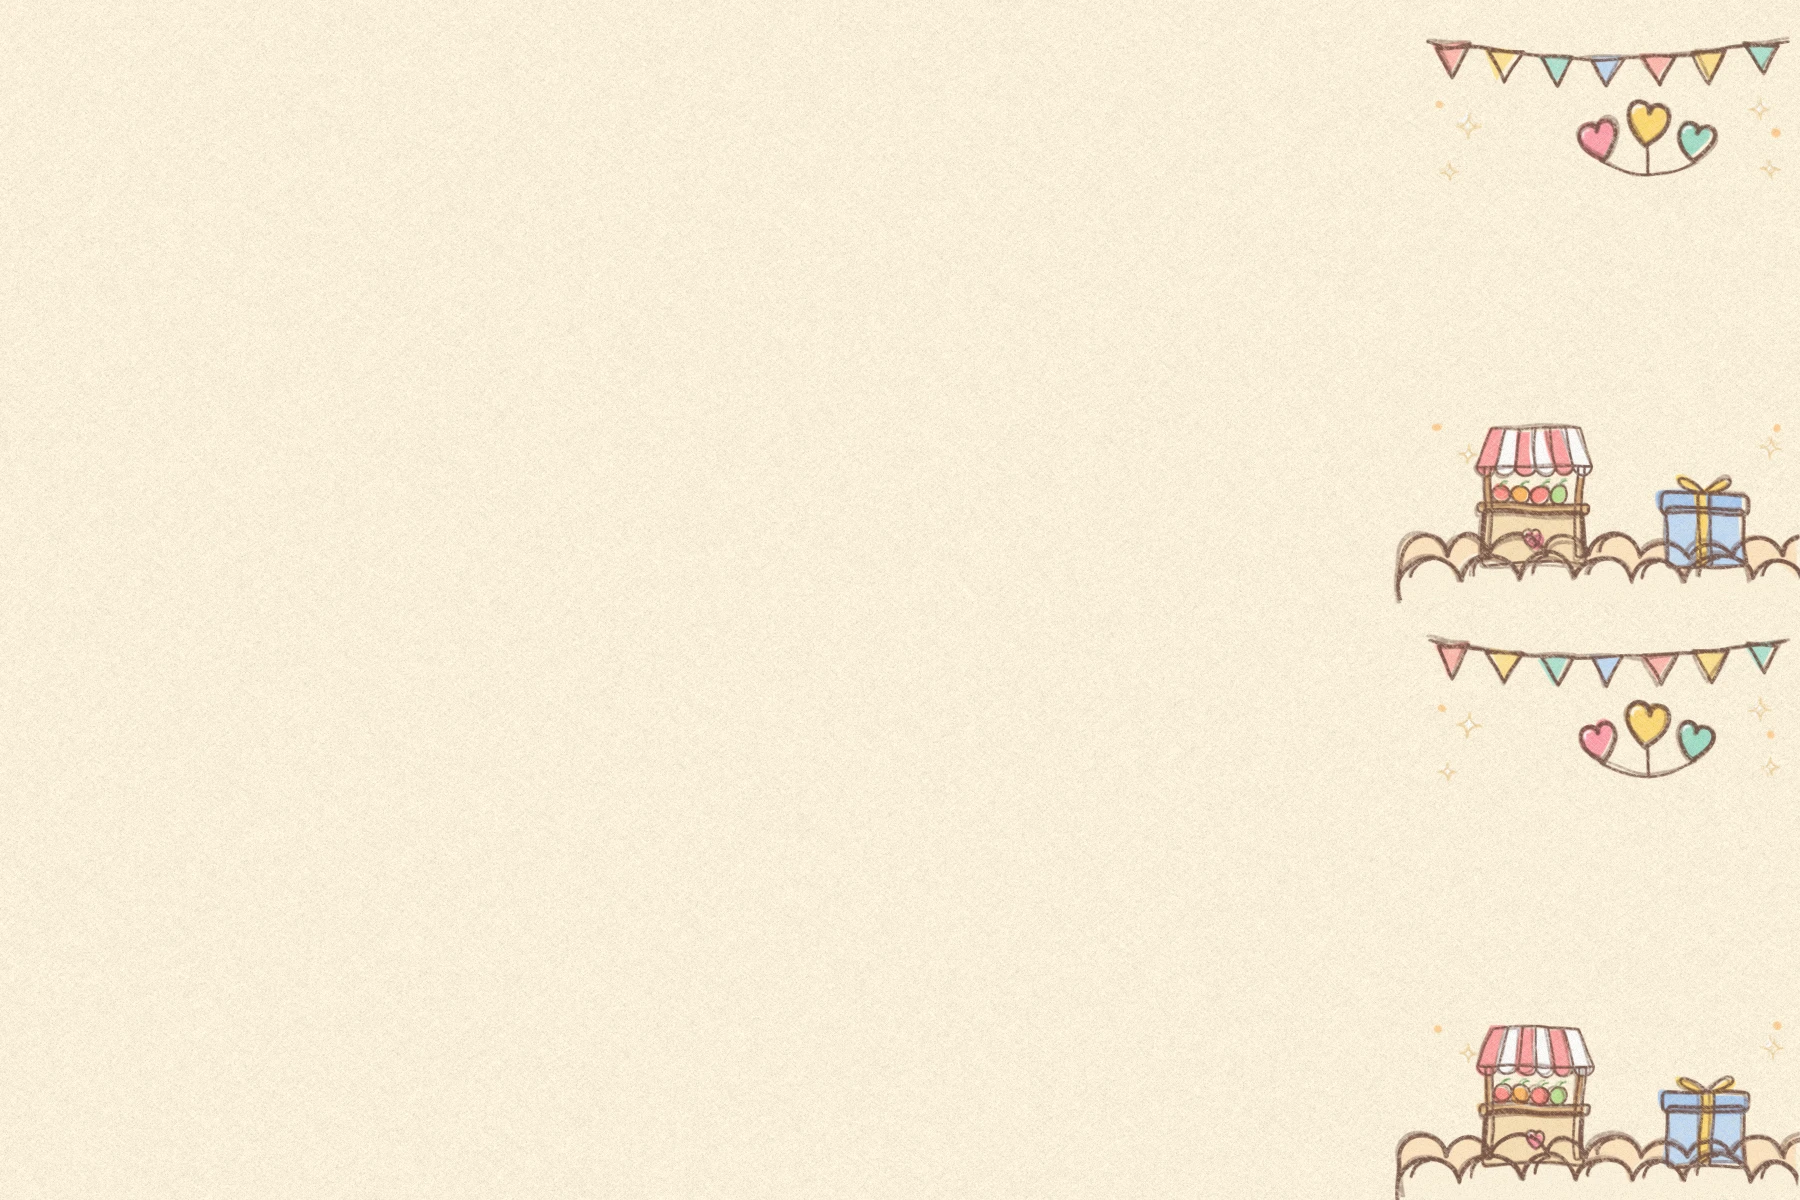
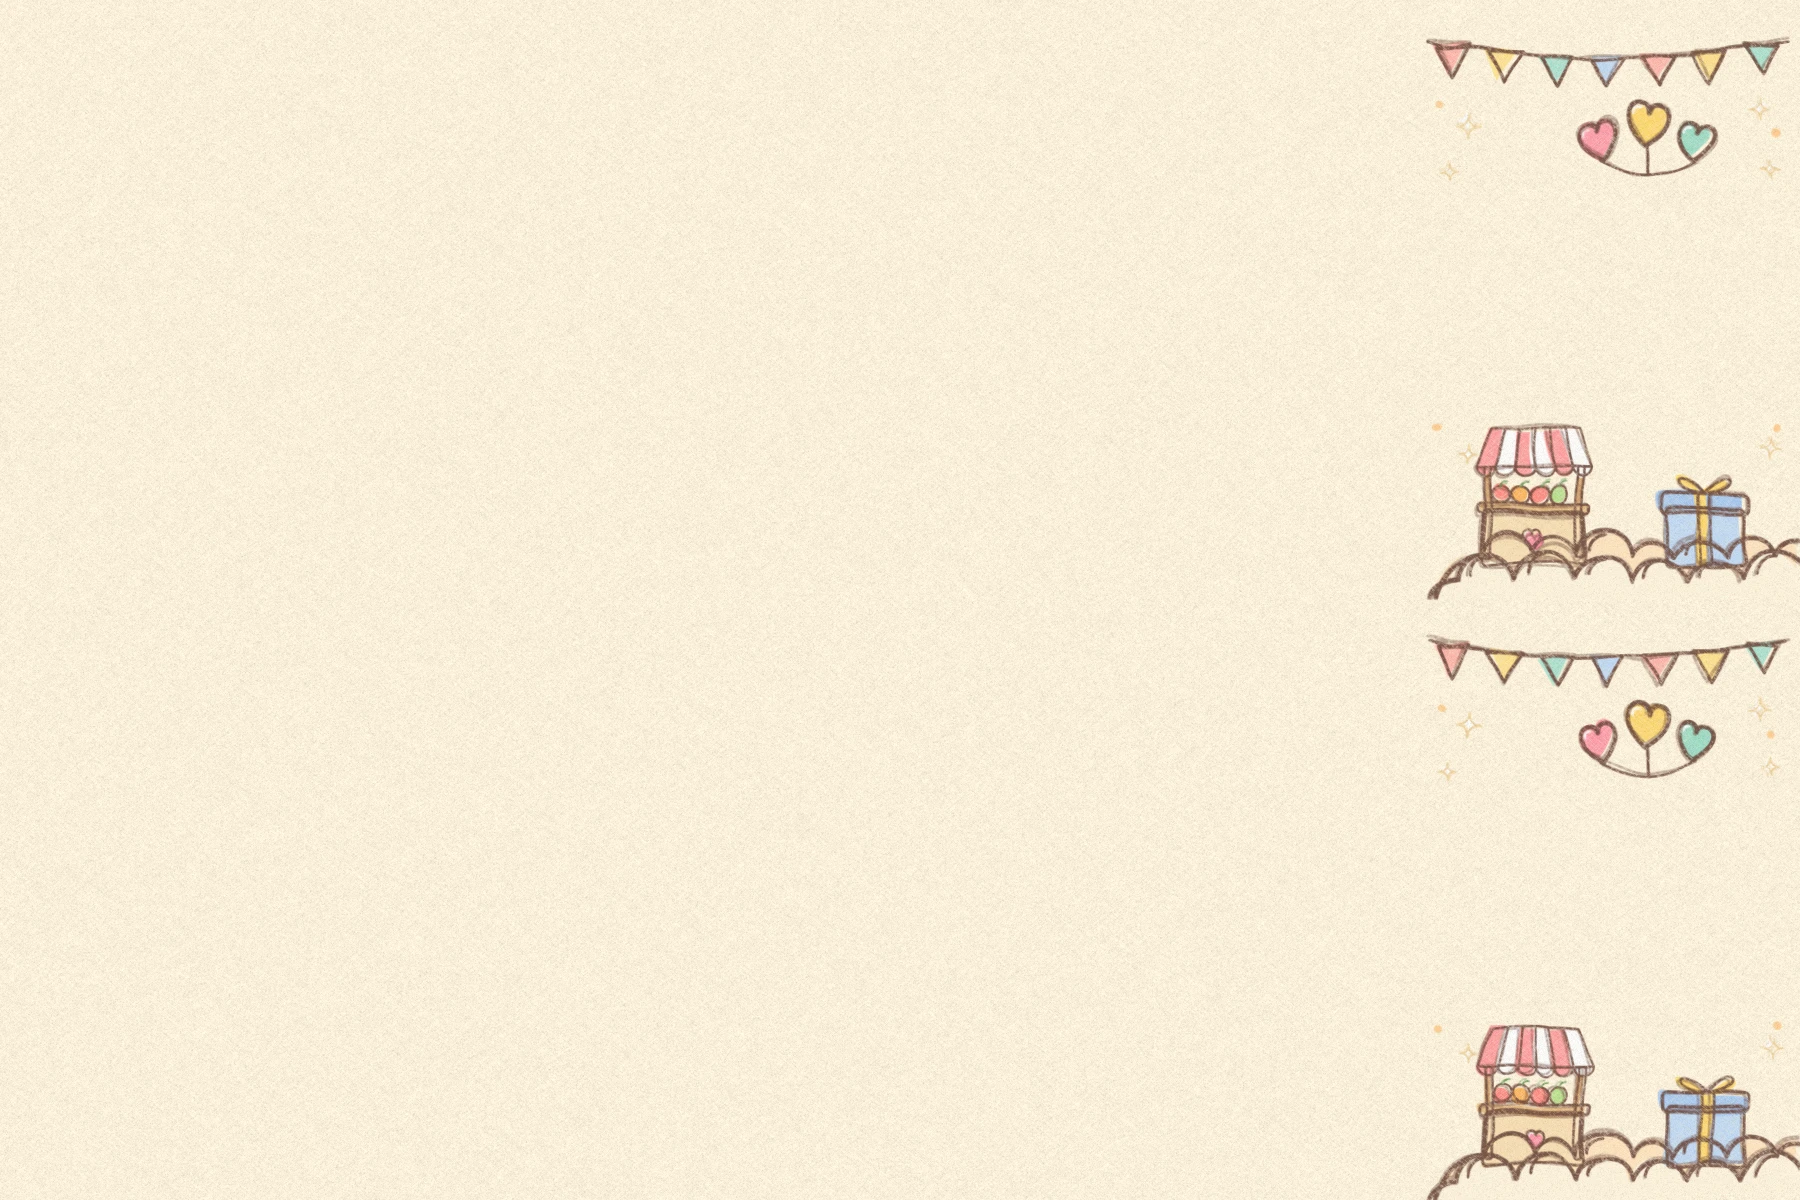
Square corners on camera view and preview; replace space and school landscape frames

Changed region(s): [[0.7778, 0.925, 1.0, 1.0], [0.7778, 0.4317, 1.0, 0.4933]]

diff --git a/index.html b/index.html
@@ -116,7 +116,7 @@
       width: 440px;
       height: 600px;
       background: #000;
-      border-radius: 20px;
+      border-radius: 0;   /* 모서리를 둥글지 않게 */
       overflow: hidden;
       box-shadow: 0 14px 40px rgba(0,0,0,0.8);
       border: 5px solid #3c3c52;
@@ -285,7 +285,7 @@
       width: auto;
       aspect-ratio: 2 / 3;
       background: white;
-      border-radius: 6px;
+      border-radius: 0;   /* 모서리를 둥글지 않게 */
       box-shadow: 0 8px 25px rgba(0,0,0,0.5);
     }
 
